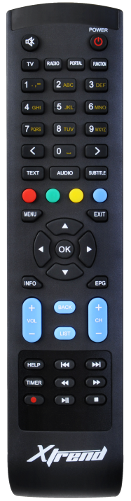
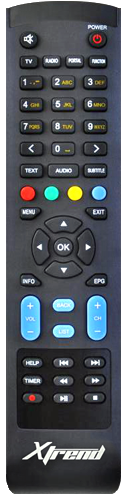
update et7x00 remote
- fix rcpositions.xml
- fix remote.html
- fix rc.png

diff --git a/BoxBranding/remotes/et7x00/remote.html b/BoxBranding/remotes/et7x00/remote.html
@@ -1,59 +1,52 @@
 <img border='0' src='static/remotes/et7x00/rc.png' usemap='#map' >
 <map name="map">
-	<area shape="rect" coords="15,32,38,42" alt="STB" onclick="pressMenuRemote('');">
-	<area shape="rect" coords="45,30,75,46" alt="Power" onclick="pressMenuRemote('116');">
-	<area shape="rect" coords="83,32,106,42" alt="TV" onclick="pressMenuRemote('');">
-	<area shape="rect" coords="16,53,42,63" alt="1" onclick="pressMenuRemote('2');">
-	<area shape="rect" coords="48,53,74,63" alt="2" onclick="pressMenuRemote('3');">
-	<area shape="rect" coords="79,53,105,63" alt="3" onclick="pressMenuRemote('4');">
-	<area shape="rect" coords="16,69,42,80" alt="4" onclick="pressMenuRemote('5');">
-	<area shape="rect" coords="48,69,74,80" alt="5" onclick="pressMenuRemote('6');">
-	<area shape="rect" coords="79,69,105,80" alt="6" onclick="pressMenuRemote('7');">
-	<area shape="rect" coords="16,86,42,97" alt="7" onclick="pressMenuRemote('8');">
-	<area shape="rect" coords="48,86,74,97" alt="8" onclick="pressMenuRemote('9');">
-	<area shape="rect" coords="79,86,105,97" alt="9" onclick="pressMenuRemote('10');">
-	<area shape="rect" coords="16,103,42,114" alt="previous" onclick="pressMenuRemote('412');">
-	<area shape="rect" coords="48,103,74,114" alt="0" onclick="pressMenuRemote('11');">
-	<area shape="rect" coords="79,103,105,114" alt="next" onclick="pressMenuRemote('407');">
-	<area shape="circle" coords="26,132,7" alt="skiprewind" onclick="pressMenuRemote('165');">
-	<area shape="circle" coords="47,127,10" alt="rewind" onclick="pressMenuRemote('168');">
-	<area shape="circle" coords="74,127,10" alt="forward" onclick="pressMenuRemote('208');">
-	<area shape="circle" coords="95,132,7" alt="skipforward" onclick="pressMenuRemote('163');">
-	<area shape="circle" coords="35,148,10" alt="record" onclick="pressMenuRemote('167');">
-	<area shape="circle" coords="60,144,10" alt="play" onclick="pressMenuRemote('164');">
-	<area shape="circle" coords="86,148,10" alt="stop" onclick="pressMenuRemote('128');">
-	<area shape="circle" coords="27,172,10" alt="Menu" onclick="pressMenuRemote('139');">
-	<area shape="circle" coords="94,172,10" alt="Exit" onclick="pressMenuRemote('174');">
-	<area shape="rect" coords="47,172,74,188" alt="up" onclick="pressMenuRemote('103');">
-	<area shape="rect" coords="28,188,45,218" alt="left" onclick="pressMenuRemote('105');">
-	<area shape="circle" coords="61,204,10" alt="OK" onclick="pressMenuRemote('352');">
-	<area shape="rect" coords="76,188,93,218" alt="right" onclick="pressMenuRemote('106');">
-	<area shape="rect" coords="47,218,74,234" alt="down" onclick="pressMenuRemote('108');">
-	<area shape="circle" coords="27,236,10" alt="Info" onclick="pressMenuRemote('358');">
-	<area shape="circle" coords="94,236,10" alt="Epg" onclick="pressMenuRemote('365');">
-	<area shape="circle" coords="30,263,10" alt="Volume Up" onclick="pressMenuRemote('115');">
-	<area shape="circle" coords="61,263,10" alt="Back" onclick="pressMenuRemote('158');">
-	<area shape="circle" coords="91,263,10" alt="Channel Up" onclick="pressMenuRemote('402');">
-	<area shape="circle" coords="33,289,10" alt="Volume Down" onclick="pressMenuRemote('114');">
-	<area shape="circle" coords="61,287,10" alt="Mute" onclick="pressMenuRemote('113');">
-	<area shape="circle" coords="88,289,10" alt="Channel Down" onclick="pressMenuRemote('403');">
-	<area shape="rect" coords="19,306,36,314" alt="red" onclick="pressMenuRemote('398');">
-	<area shape="rect" coords="41,306,58,314" alt="green" onclick="pressMenuRemote('399');">
-	<area shape="rect" coords="63,306,80,314" alt="yellow" onclick="pressMenuRemote('400');">
-	<area shape="rect" coords="85,306,101,314" alt="blue" onclick="pressMenuRemote('401');">
-	<area shape="rect" coords="20,322,44,334" alt="F1" onclick="pressMenuRemote('59');">
-	<area shape="rect" coords="49,322,72,334" alt="F2" onclick="pressMenuRemote('60');">
-	<area shape="rect" coords="78,322,101,334" alt="F3" onclick="pressMenuRemote('61');">
-	<area shape="rect" coords="20,341,44,354" alt="Timeshift" onclick="pressMenuRemote('119');">
-	<area shape="rect" coords="49,341,72,354" alt="List" onclick="pressMenuRemote('393');">
-	<area shape="rect" coords="78,341,101,354" alt="HDMI Rx" onclick="pressMenuRemote('390');">
-	<area shape="rect" coords="20,359,44,373" alt="Timer" onclick="pressMenuRemote('362');">
-	<area shape="rect" coords="49,359,72,373" alt="PIP" onclick="pressMenuRemote('375');">
-	<area shape="rect" coords="78,359,101,373" alt="V-Key" onclick="pressMenuRemote('227');">
-	<area shape="rect" coords="20,378,44,392" alt="Text" onclick="pressMenuRemote('388');">
-	<area shape="rect" coords="49,378,72,392" alt="Audio" onclick="pressMenuRemote('392');">
-	<area shape="rect" coords="78,378,101,392" alt="Subtitle" onclick="pressMenuRemote('370');">
-	<area shape="rect" coords="20,397,44,410" alt="TV" onclick="pressMenuRemote('377');">
-	<area shape="rect" coords="49,397,72,410" alt="Radio" onclick="pressMenuRemote('385');">
-	<area shape="rect" coords="78,397,101,410" alt="Help" onclick="pressMenuRemote('138');">
+	<area shape="circle" coords="94,50,12" alt="function" onclick="pressMenuRemote('');">
+	<area shape="circle" coords="99,38,12" alt="power" onclick="pressMenuRemote('116');">
+	<area shape="circle" coords="30,86,12" alt="1" onclick="pressMenuRemote('2');">
+	<area shape="circle" coords="59,86,12" alt="2" onclick="pressMenuRemote('3');">
+	<area shape="circle" coords="88,86,12" alt="3" onclick="pressMenuRemote('4');">
+	<area shape="circle" coords="30,104,12" alt="4" onclick="pressMenuRemote('5');">
+	<area shape="circle" coords="59,104,12" alt="5" onclick="pressMenuRemote('6');">
+	<area shape="circle" coords="88,104,12" alt="6" onclick="pressMenuRemote('7');">
+	<area shape="circle" coords="30,122,12" alt="7" onclick="pressMenuRemote('8');">
+	<area shape="circle" coords="59,122,12" alt="8" onclick="pressMenuRemote('9');">
+	<area shape="circle" coords="88,122,12" alt="9" onclick="pressMenuRemote('10');">
+	<area shape="circle" coords="30,139,12" alt="previous" onclick="pressMenuRemote('412');">
+	<area shape="circle" coords="59,139,12" alt="0" onclick="pressMenuRemote('11');">
+	<area shape="circle" coords="95,139,12" alt="next" onclick="pressMenuRemote('407');">
+	<area shape="circle" coords="28,195,10" alt="red" onclick="pressMenuRemote('398');">
+	<area shape="circle" coords="55,195,10" alt="green" onclick="pressMenuRemote('399');">
+	<area shape="circle" coords="78,195,10" alt="yellow" onclick="pressMenuRemote('400');">
+	<area shape="circle" coords="98,195,10" alt="blue" onclick="pressMenuRemote('401');">
+	<area shape="circle" coords="30,209,12" alt="menu" onclick="pressMenuRemote('139');">
+	<area shape="circle" coords="95,280,12" alt="epg" onclick="pressMenuRemote('365');">
+	<area shape="circle" coords="30,280,12" alt="info" onclick="pressMenuRemote('358');">
+	<area shape="circle" coords="95,205,12" alt="exit" onclick="pressMenuRemote('174');">
+	<area shape="circle" coords="64,215,15" alt="up" onclick="pressMenuRemote('103');">
+	<area shape="circle" coords="59,270,15" alt="down" onclick="pressMenuRemote('108');">
+	<area shape="circle" coords="40,235,15" alt="left" onclick="pressMenuRemote('105');">
+	<area shape="circle" coords="88,235,15" alt="right" onclick="pressMenuRemote('106');">
+	<area shape="circle" coords="64,240,15" alt="ok" onclick="pressMenuRemote('352');">
+	<area shape="circle" coords="32,302,10" alt="volume up" onclick="pressMenuRemote('115');">
+	<area shape="circle" coords="32,325,10" alt="volume down" onclick="pressMenuRemote('114');">
+	<area shape="circle" coords="30,38,12" alt="mute" onclick="pressMenuRemote('113');">
+	<area shape="circle" coords="62,335,12" alt="list" onclick="pressMenuRemote('393');">
+	<area shape="circle" coords="97,302,10" alt="channel up" onclick="pressMenuRemote('402');">
+	<area shape="circle" coords="97,325,10" alt="channel down" onclick="pressMenuRemote('403');">
+	<area shape="circle" coords="62,380,12" alt="rewind" onclick="pressMenuRemote('168');">
+	<area shape="circle" coords="62,400,12" alt="playpause" onclick="pressMenuRemote('164');">
+	<area shape="circle" coords="93,380,12" alt="forward" onclick="pressMenuRemote('208');">
+	<area shape="circle" coords="35,400,12" alt="record" onclick="pressMenuRemote('167');">
+	<area shape="circle" coords="93,400,12" alt="stop" onclick="pressMenuRemote('128');">
+	<area shape="circle" coords="62,365,12" alt="skiprewind" onclick="pressMenuRemote('412');">
+	<area shape="circle" coords="93,365,12" alt="skipforward" onclick="pressMenuRemote('407');">
+	<area shape="circle" coords="74,58,12" alt="portal" onclick="pressMenuRemote('156');">
+	<area shape="circle" coords="30,365,12" alt="help" onclick="pressMenuRemote('138');">
+	<area shape="circle" coords="30,179,14" alt="text" onclick="pressMenuRemote('388');">
+	<area shape="circle" coords="89,179,14" alt="subtitle" onclick="pressMenuRemote('370');">
+	<area shape="circle" coords="60,179,15" alt="audio" onclick="pressMenuRemote('392');">
+	<area shape="circle" coords="30,50,12" alt="tv" onclick="pressMenuRemote('377');">
+	<area shape="circle" coords="50,50,12" alt="radio" onclick="pressMenuRemote('385');">
+	<area shape="circle" coords="35,380,12" alt="timer" onclick="pressMenuRemote('362');">
+	<area shape="circle" coords="62,300,12" alt="back" onclick="pressMenuRemote('158');">
 </map>
